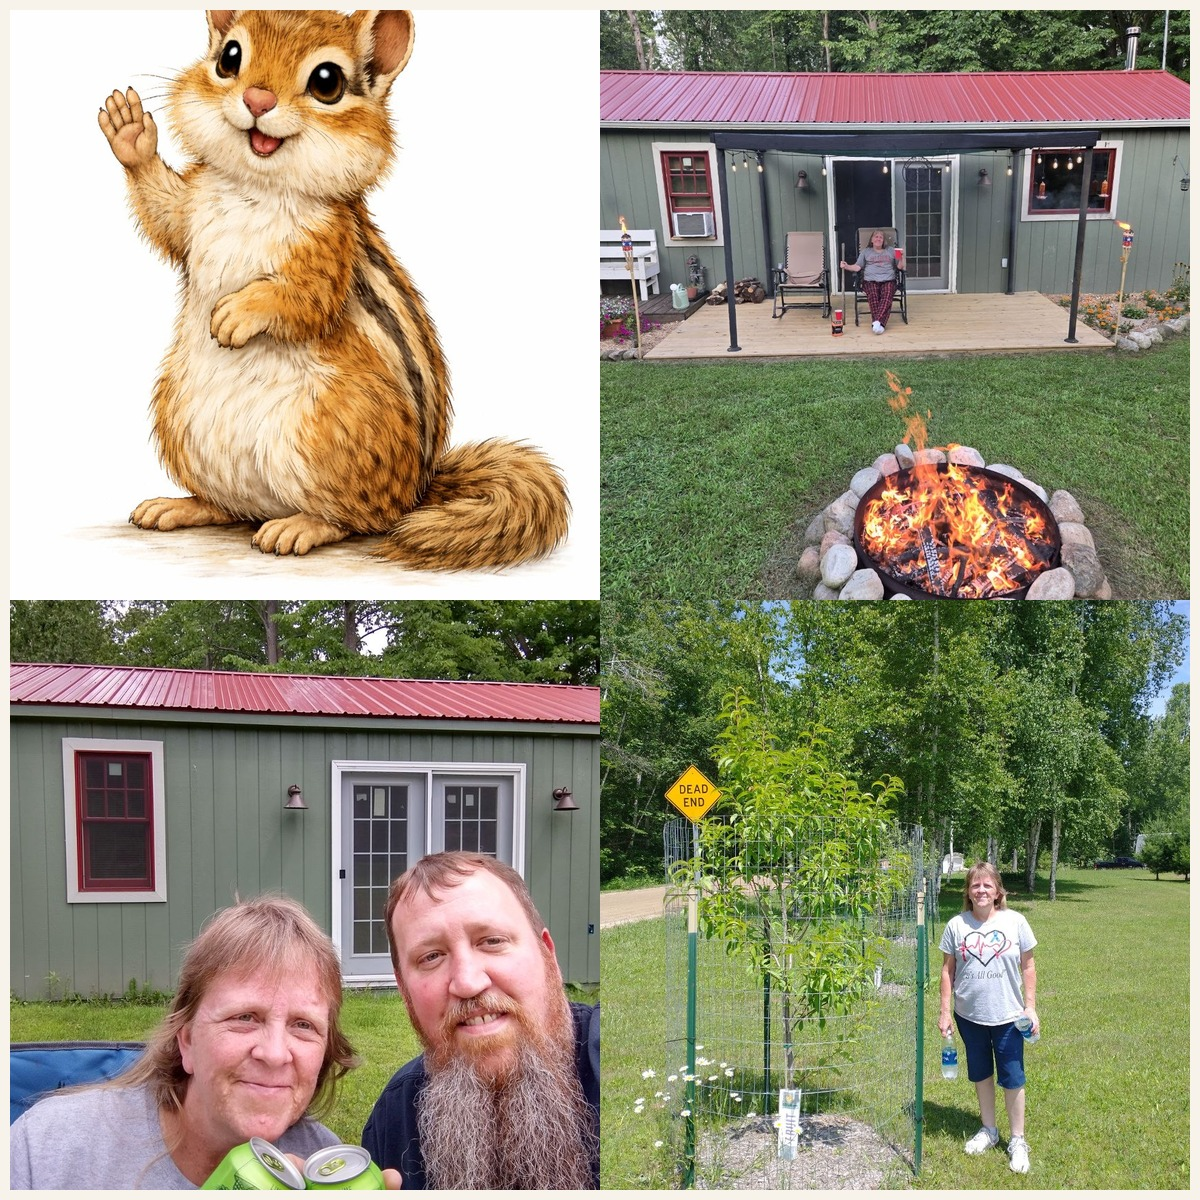
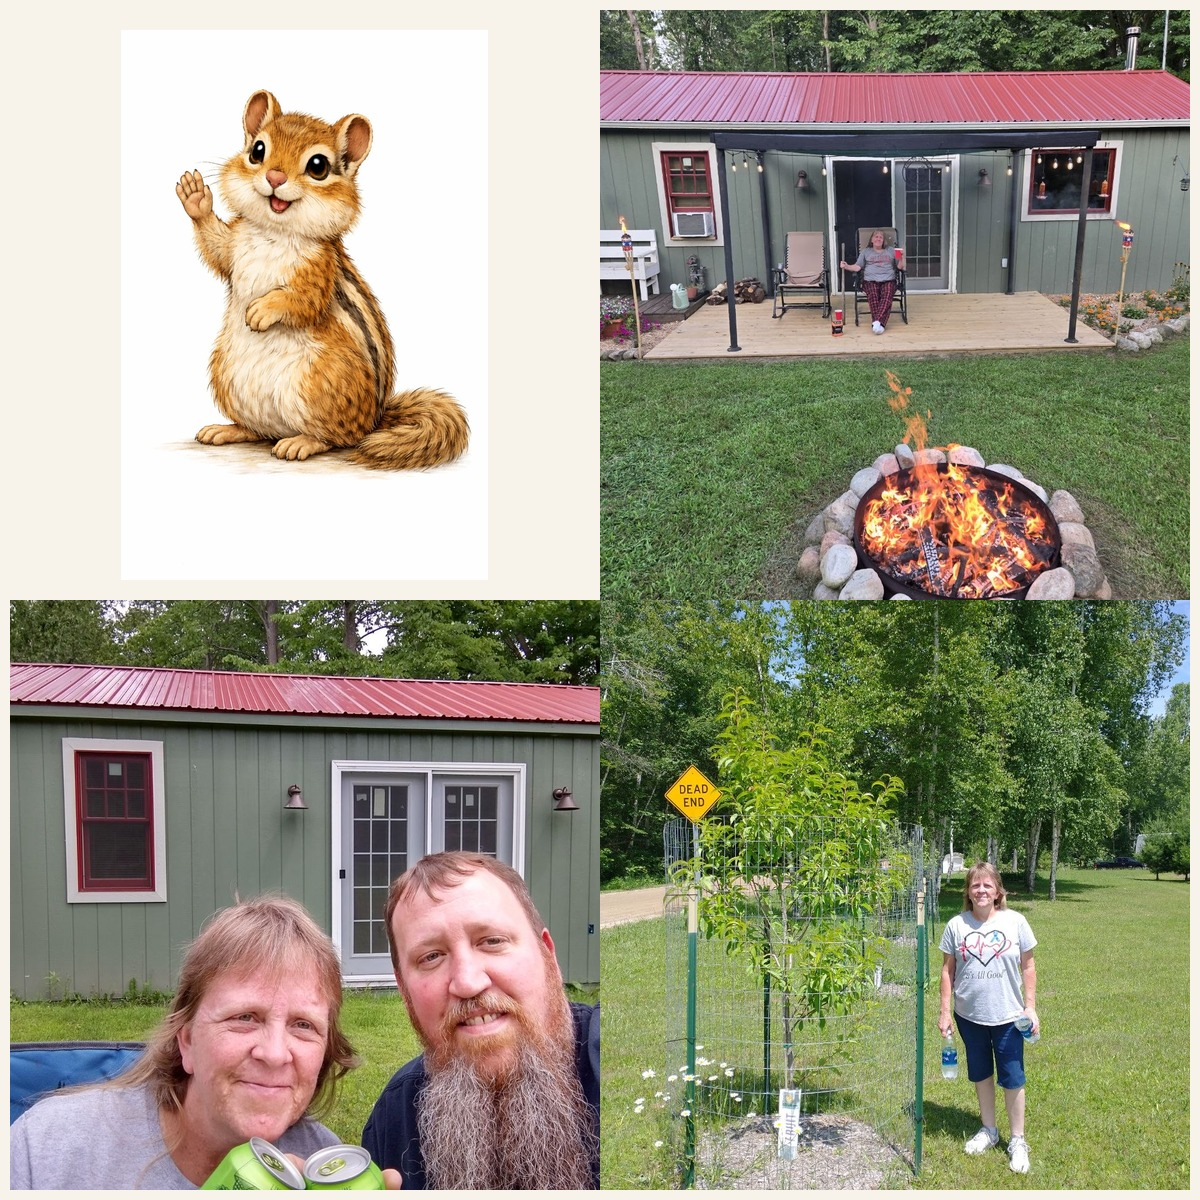
Shrink meet the crew collage and fix Chippy crop

Changed region(s): [[0.0617, 0.0, 0.4933, 0.4933]]

diff --git a/assets/css/styles.css b/assets/css/styles.css
@@ -112,7 +112,7 @@ a:hover { text-decoration: underline; }
   color: #8a5a32;
 }
 .crew-intro-collage {
-  max-width: 420px;
+  max-width: 360px;
   justify-self: end;
 }
 .crew-intro-collage img {
@@ -241,5 +241,5 @@ a:hover { text-decoration: underline; }
   .hero-grid, .split, .card-grid, .crew-intro-grid { grid-template-columns: 1fr; }
   .nav { align-items: flex-start; flex-direction: column; }
   .nav-chippy { width: 20px; }
-  .crew-intro-collage { max-width: 320px; justify-self: center; }
+  .crew-intro-collage { max-width: 290px; justify-self: center; }
 }
